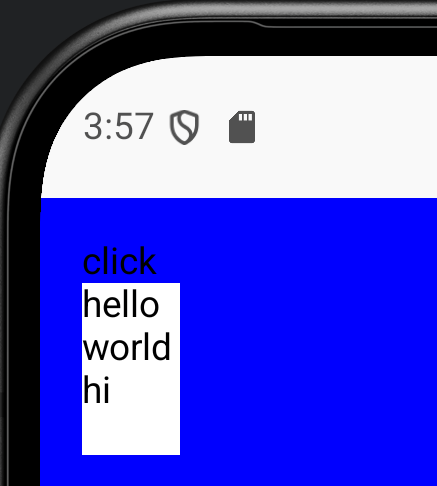
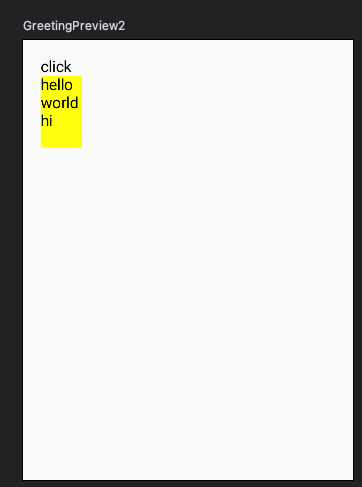
compose scroll pointer lazycolumn

diff --git a/_pages/compose/scroll.md b/_pages/compose/scroll.md
@@ -1,0 +1,130 @@
+---
+title: Column Row scroll
+date: 2025-12-30
+keywords: Android, Jetpack compose, scrollable
+---
+Prerequisites:
+
+- [repeat][1]
+- [rememberCoroutineScope][2]
+
+Column 與 Row 滾動語法
+```
+val scrollState = rememberScrollState()
+// Column 垂直滑動
+Modifier.verticalScroll(scrollState)
+// Row 水平滑動
+Modifier.horizontalScroll(scrollState)
+```
+
+Column 與 Row 都是預先把子元素載入，適合用在表單填寫或靜態的內容。<br>
+
+LazyColumn 與 LazyRow，滑動到(在螢幕上)才載入子元素，之前滑過的(沒有在螢幕上)會被記憶體回收。<br>
+
+## Column
+一開始就已經先畫好1000個元素在畫布上。
+{% highlight kotlin linenos %}
+@Composable
+fun ScrollExample1() {
+  val scrollState = rememberScrollState()
+  Column (modifier = Modifier
+    .fillMaxSize()
+    .verticalScroll(scrollState)
+  ) {
+    repeat(1000) {
+      Text("Item $it")
+    }
+  }
+}
+{% endhighlight %}
+
+## Row
+一開始就已經先畫好1000個元素在畫布上。
+{% highlight kotlin linenos %}
+@Composable
+fun ScrollExample2() {
+  val scrollState = rememberScrollState()
+  Row (modifier = Modifier
+    .fillMaxSize()
+    .horizontalScroll(scrollState)
+  ) {
+    repeat(1000) {
+      Text("Item $it")
+    }
+  }
+}
+{% endhighlight %}
+
+## scrollTo 滑動到頂部 底部 中間
+Column與Row不支援特定位置，以下是錯誤寫法，scrollTo(參數是pixel像素)。<br>
+{% highlight kotlin linenos %}
+scrollState.scrollTo(900)  // 這是像素值，不是項目索引！
+{% endhighlight %}
+
+scrollTo是suspend function，需要在協程中執行，所以使用Compose專用的協程作用域rememberCoroutineScope()。<br>
+{% highlight kotlin linenos %}
+  val scope = rememberCoroutineScope()
+  scope.launch { scrollState.scrollTo(scrollState.maxValue/2) }
+{% endhighlight %}
+
+位置有以下三種:<br>
+- Top: 0
+- Bottom: scrollState.maxValue
+- Middle: scrollState.maxValue / 2
+
+語法:
+```
+// 頂部Top
+scrollState.scrollTo(0)
+// 底部Bottom
+scrollState.scrollTo(scrollState.maxValue)
+// 中間Middle
+scrollState.scrollTo(scrollState.maxValue/2)
+```
+
+scrollto可替換成animateScrollTo。
+{% highlight kotlin linenos %}
+scrollState.animateScrollTo(scrollState.maxValue)
+{% endhighlight %}
+
+![img]({{site.imgurl}}/compose/modifier/scrollto.png)<br>
+
+完整程式碼
+{% highlight kotlin linenos %}
+@Composable
+fun ScrollExample3() {
+  val scrollState = rememberScrollState()
+  val scope = rememberCoroutineScope()
+  Column (modifier = Modifier
+    .fillMaxSize()){
+    Row (modifier = Modifier
+      .fillMaxWidth()){
+      Button(onClick = {
+        scope.launch { scrollState.scrollTo(scrollState.maxValue) }
+      }) {
+        Text("Scroll to Bottom")
+      }
+      Button(onClick = {
+        scope.launch { scrollState.scrollTo(scrollState.maxValue/2) }
+      }) {
+        Text("Scroll to Middle")
+      }
+      Button(onClick = {
+        scope.launch { scrollState.scrollTo(0) }
+      }) {
+        Text("Scroll to Top")
+      }
+    }
+    Column (modifier = Modifier
+      .verticalScroll(scrollState)
+    ) {
+      repeat(1000) {
+        Text("Item $it")
+      }
+    }
+  }
+}
+{% endhighlight %}
+
+[1]: {% link _pages/kotlin/when_if.md %}#repeat
+[2]: {% link _pages/compose/rememberCoroutineScope.md %}

diff --git a/_pages/compose/lazycolumn.md b/_pages/compose/lazycolumn.md
@@ -1,8 +1,118 @@
 ---
-title: LazyColumn水平置中
+title: LazyColumn
 date: 2023-05-03
 keywords: Android, Jetpack compose, LazyColumn
 ---
+Prerequisites:
+
+- [repeat][1]
+- [Scroll][2]
+
+LazyColumn特性：
+- 只渲染可見項目：只會渲染當前螢幕可見的項目，離開螢幕的項目會被回收
+- 高效能：適合大量數據（成千上萬個項目)
+- 支援複雜佈局：自動處理滾動狀態、內存管理
+- 滾動狀態:	內建 LazyListState
+
+## import
+```
+import androidx.compose.foundation.lazy.LazyColumn
+import androidx.compose.foundation.lazy.items
+```
+
+## 語法
+{% highlight kotlin linenos %}
+  LazyColumn {
+    items(1000) {
+      Text("$it")
+    }
+  }
+{% endhighlight %}
+
+![img]({{site.imgurl}}/compose/lazy_column1.png)  <br>
+
+## item 單筆資料
+可由多個 item 單筆資料組成。<br>
+
+![img]({{site.imgurl}}/compose/lazy_column2.png)  <br>
+
+{% highlight kotlin linenos %}
+@Composable
+fun lazyColumnExample2() {
+  LazyColumn {
+    item {
+      Text("Header")
+    }
+    item {
+      Text("Body")
+    }
+    item {
+      Text("Footer")
+    }
+  }
+}
+{% endhighlight %}
+
+## items 指定數量
+用在LazyColumn中，跟repeat一樣，輸出資料，但repeat不能使用在LazyColumn。<br>
+
+以下是錯誤的寫法:<br>
+{% highlight kotlin linenos %}
+  LazyColumn {
+    repeat(1000) {
+      Text("$it")
+    }
+  }
+{% endhighlight %}
+
+正確寫法1
+{% highlight kotlin linenos %}
+  LazyColumn {
+    items(1000) {
+      Text("$it")
+    }
+  }
+{% endhighlight %}
+
+正確寫法2，執行結果跟上面相同。
+{% highlight kotlin linenos %}
+  LazyColumn {
+    items(1000) { index ->
+      Text("$index")
+    }
+  }
+{% endhighlight %}
+
+## items 與 list
+![img]({{site.imgurl}}/compose/lazy_column3.png)  <br>
+{% highlight kotlin linenos %}
+@Composable
+fun lazyColumnExample3() {
+  val data = listOf("Apple", "Orange", "Banana")
+  LazyColumn {
+    items(data) { fruit ->
+      Text("$fruit")
+    }
+  }
+}
+{% endhighlight %}
+
+## itemsIndexed 有索引
+![img]({{site.imgurl}}/compose/lazy_column4.png)  <br>
+{% highlight kotlin linenos %}
+@Composable
+fun lazyColumnExample4() {
+  val data = listOf("Apple", "Orange", "Banana")
+  LazyColumn {
+    itemsIndexed(data) { index, fruit ->
+      Text("insex = $index ,fruit = $fruit")
+    }
+  }
+}
+{% endhighlight %}
+------------------------------
+以下是舊文章
+
 {% highlight kotlin linenos %}
 LazyColumn(horizontalAlignment = Alignment.CenterHorizontally) {
 }
@@ -12,3 +122,7 @@ LazyColumn(horizontalAlignment = Alignment.CenterHorizontally) {
 
 設置後  
 ![img]({{site.imgurl}}/compose/lazycolumn2.png)  
+
+
+[1]: {% link _pages/kotlin/when_if.md %}#repeat
+[2]: {% link _pages/compose/scroll.md %}

diff --git a/_pages/compose/pointer_input.md b/_pages/compose/pointer_input.md
@@ -1,0 +1,68 @@
+---
+title: pointerInput()
+date: 2025-12-30
+keywords: Android, Jetpack compose, pointerInput
+---
+pointerInput()可以診測各種手勢，以下以點擊作為例子:<br>
+- onTap 點一下
+- onDoubleTap 點二下
+- onPress 壓
+- onLongPress 長壓
+
+## 取得點擊xy座標
+![img]({{site.imgurl}}/compose/modifier/pointer_tap1.png)<br>
+
+{% highlight kotlin linenos %}
+@Composable
+fun PointerInputExample1() {
+  var lastOffset by remember { mutableStateOf(Offset.Zero) }
+  Box(
+    modifier = Modifier
+      .size(100.dp)
+      .pointerInput(Unit) {
+        detectTapGestures(
+          onTap = { offset ->
+            lastOffset = offset
+          }
+        )
+      }
+  ) {
+    Text("x = ${lastOffset.x.toInt()}, y = ${lastOffset.y.toInt()}")
+  }
+}
+{% endhighlight %}
+
+## 取得各個點擊手勢xy座標
+{% highlight kotlin linenos %}
+@Composable
+fun PointerInputExample1() {
+  var lastOffset by remember { mutableStateOf(Offset.Zero) }
+  var gesture by remember { mutableStateOf("") }
+  Box(
+    modifier = Modifier
+      .size(100.dp)
+      .pointerInput(Unit) {
+        detectTapGestures(
+          onTap = { offset ->
+            lastOffset = offset
+            gesture = "onTap"
+          },
+          onDoubleTap = { offset ->
+            lastOffset = offset
+            gesture = "onDoubleTap"
+          },
+          onLongPress = { offset ->
+            lastOffset = offset
+            gesture = "onLongPress"
+          },
+          onPress = { offset ->
+            lastOffset = offset
+            gesture = "onPress"
+          }
+        )
+      }
+  ) {
+    Text("gesture = $gesture x = ${lastOffset.x.toInt()}, y = ${lastOffset.y.toInt()}")
+  }
+}
+{% endhighlight %}

diff --git a/_pages/compose/visible_animate.md b/_pages/compose/visible_animate.md
@@ -17,7 +17,6 @@ fun AnimateContentSizeExample() {
     modifier = Modifier
       .fillMaxWidth()
       .animateContentSize()
-      .background(Color.Blue)
       .padding(16.dp)
       .clickable {
         isExpanded = !isExpanded
@@ -29,7 +28,7 @@ fun AnimateContentSizeExample() {
         Text("hello \n" +
             "world \n" +
             "hi \n",
-          modifier = Modifier.background(Color.White))
+          modifier = Modifier.background(Color.Yellow))
       }
     }
   }

diff --git a/_pages/compose/column.md b/_pages/compose/column.md
@@ -6,6 +6,7 @@ keywords: Android, Jetpack compose, Column
 Prerequisites:
 
 - [row][1]
+- [Scroll滾動Column][2]
 
 Column的排列方式如下。<br>
 ![img]({{site.imgurl}}/compose/column1.png)<br>
@@ -188,3 +189,4 @@ Column(
 ![img]({{site.imgurl}}/compose/compose_column1.png) 
 
 [1]: {% link _pages/compose/row.md %}
+[2]: {% link _pages/compose/scroll.md %}

diff --git a/_pages/compose/row.md b/_pages/compose/row.md
@@ -3,6 +3,10 @@ title: Row
 date: 2023-05-03
 keywords: Android, Jetpack compose, Row
 ---
+Prerequisites:
+
+- [Scroll滾動Row][1]
+
 Row的排列方式如下。<br>
 ![img]({{site.imgurl}}/compose/row2.png)<br>
 
@@ -166,3 +170,6 @@ Row(
 }
 {% endhighlight %}
 ![img]({{site.imgurl}}/compose/row1.png)   
+
+
+[1]: {% link _pages/compose/scroll.md %}
